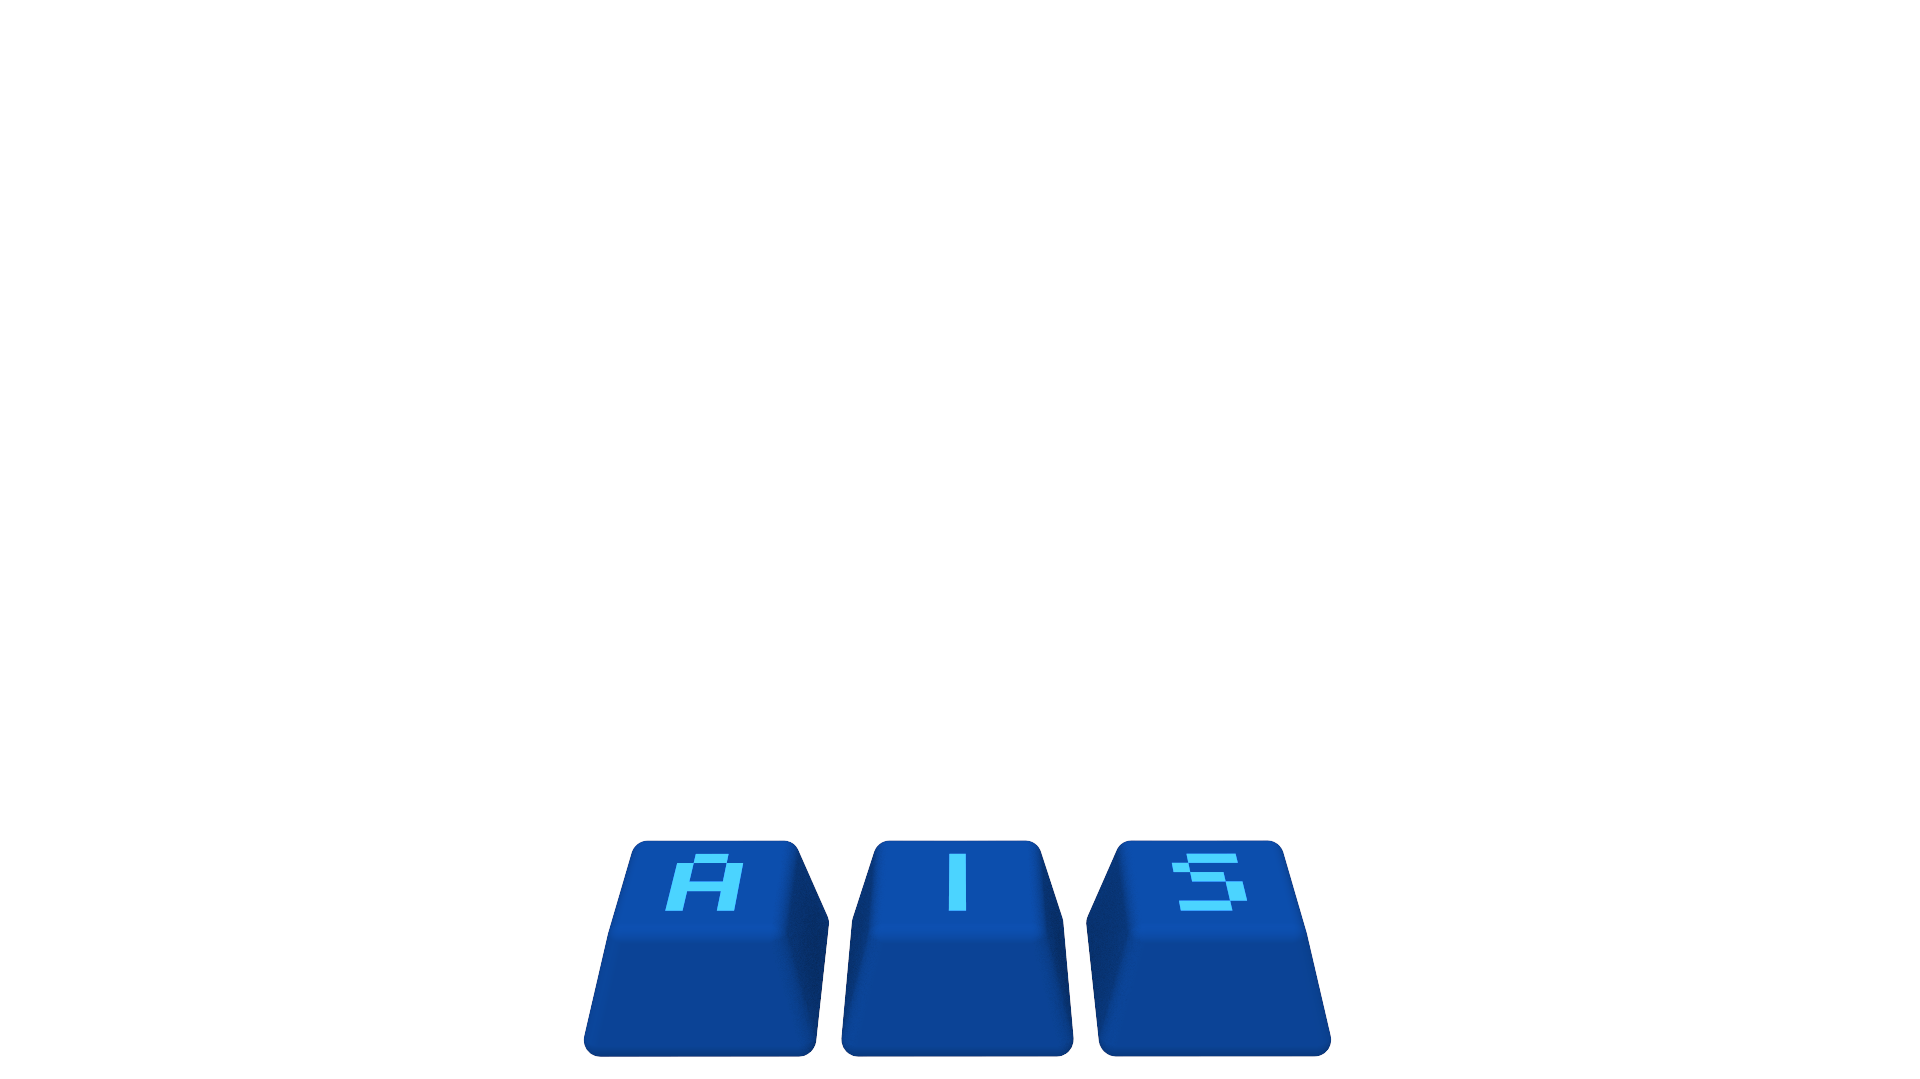
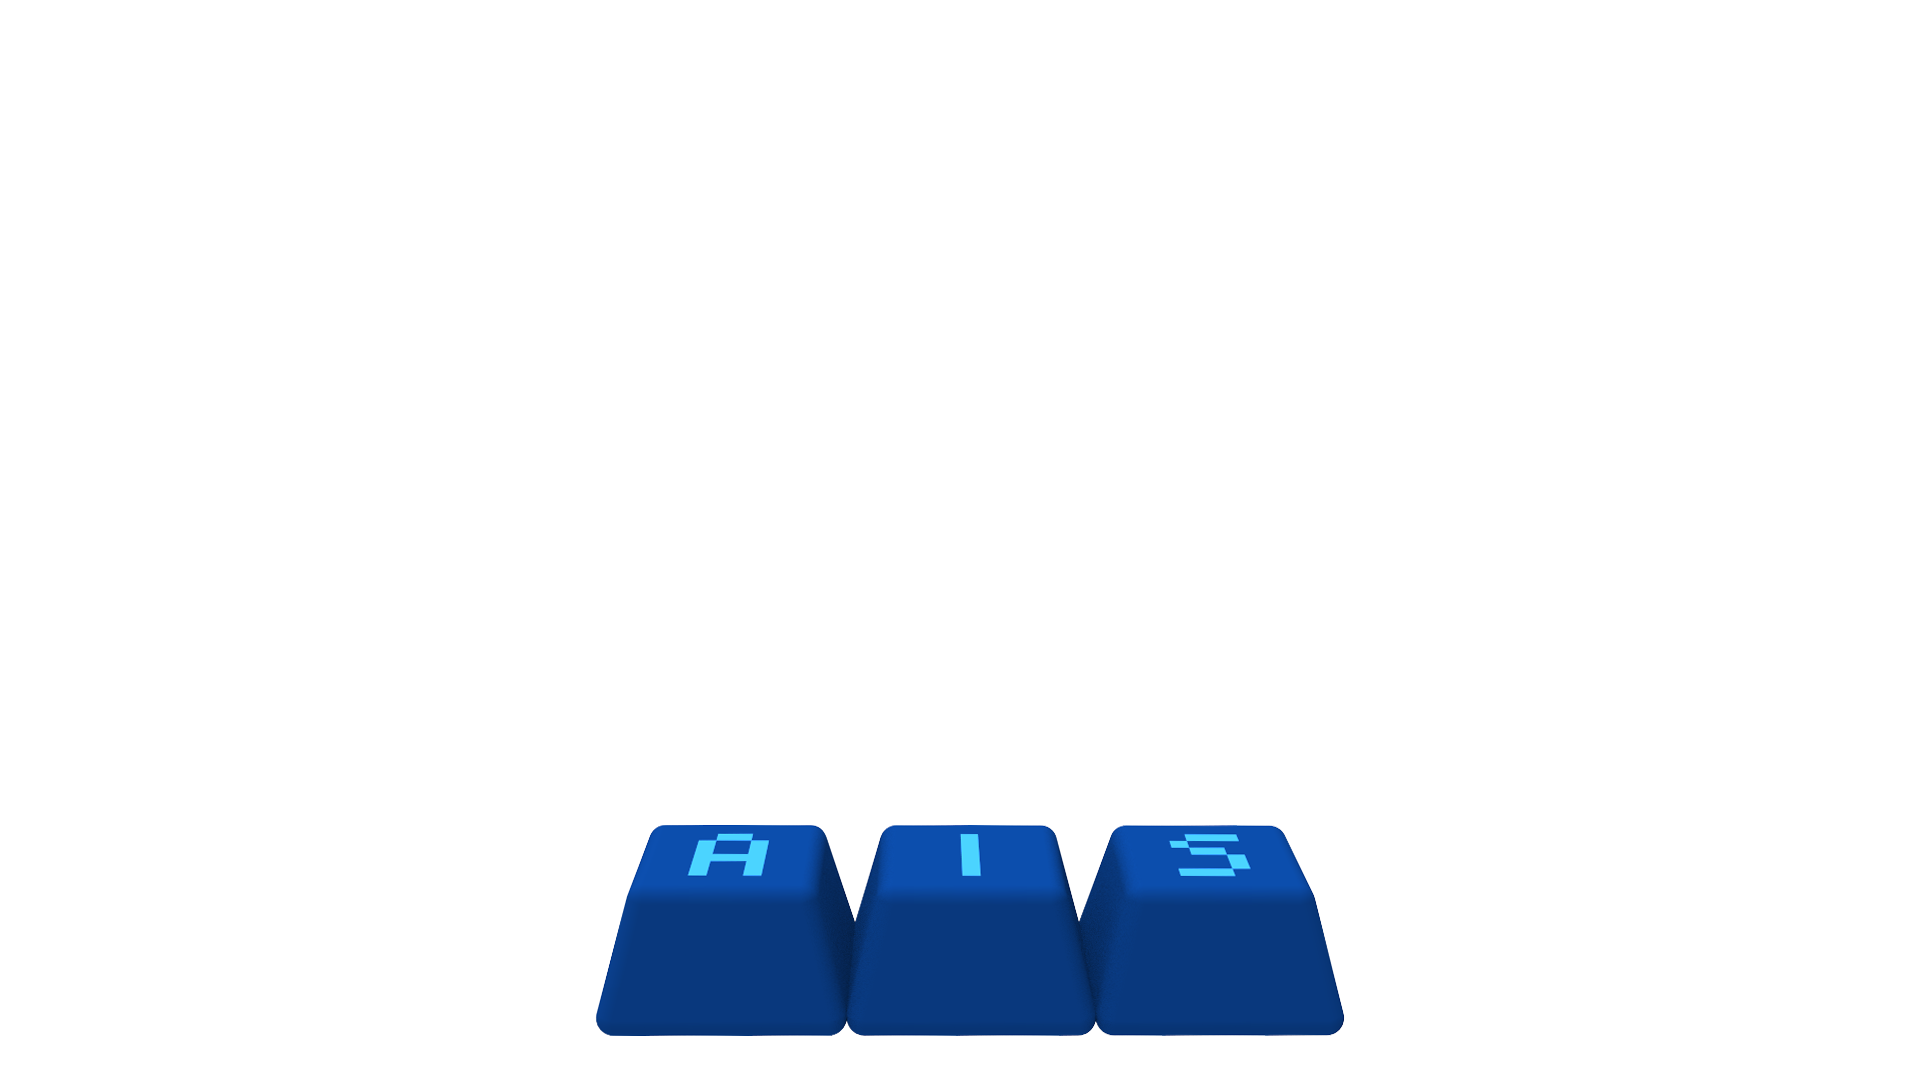
feat：方法封装

Changed region(s): [[0.2812, 0.7646, 0.7188, 0.9787]]

diff --git a/src/index.js b/src/index.js
@@ -266,26 +266,45 @@ var onError = function (xhr) {
 };
 
 var ObjLoader = new THREE.OBJLoader();
-var monster1 = null;
-//var monster2 = null;
-//var monster3 = null;
-//var monster4 = null;
-var keyboard1 = null;//键盘初始状态
-var keyboard2 = null;//键盘状态2
-var keyboard3 = null;//键盘状态3
 
+var keyboard = [];//键盘状态
+var keyboardloaded=[false,false,false];//判断加载是否完成
+var texture1 = THREE.ImageUtils.loadTexture("img/keyboard1.png",null,function(t) {
+  var material = new THREE.MeshBasicMaterial({map:texture1});
+  material.transparent=true;
+  material.opacity=0;
+  var keyboardGeometry = new THREE.BoxGeometry(2, 0.6, 0);
+  var mesh = new THREE.Mesh( keyboardGeometry,material );
+  keyboard[0] = mesh;
+  //console.log(mesh)
+  scene.add( mesh );
+  keyboardloaded[0]=true;
+});
+var texture2 = THREE.ImageUtils.loadTexture("img/keyboard2.png",null,function(t) {
+  var material = new THREE.MeshBasicMaterial({map:texture2});
+  material.transparent=true;
+  material.opacity=0;
+  var keyboardGeometry = new THREE.BoxGeometry(2, 0.6, 0);
+  var mesh = new THREE.Mesh( keyboardGeometry,material );
+  keyboard[1]  = mesh;
+  scene.add( mesh );
+  keyboardloaded[1]=true;
+});
+var texture3 = THREE.ImageUtils.loadTexture("img/keyboard3.png",null,function(t) {
+  var material = new THREE.MeshBasicMaterial({map:texture3});
+  material.transparent=true;
+  material.opacity=1;
+  var keyboardGeometry = new THREE.BoxGeometry(2, 0.6, 0);
+  var mesh = new THREE.Mesh( keyboardGeometry,material );
+  keyboard[2]  = mesh;
+  scene.add( mesh );
+  keyboardloaded[2]=true;
+});
 var shoot1 = null;//子弹
 var boom1 = null;//大招
 var boom2 = null;//大招提示
 var pointer1=null;//准星
 
-var Monster1_is_loaded = false;
-var Monster2_is_loaded = false;
-var Monster3_is_loaded = false;
-var Monster4_is_loaded = false;
-var keyboardloaded=false;//判断加载是否完成
-var keyboardloaded2=false;//判断加载是否完成
-var keyboardloaded3=false;//判断加载是否完成
 var shoot1Loaded=false;//判断加载是否完成
 var boomLoaded=false;//判断加载是否完成
 var boom2Loaded=false;//判断加载是否完成
@@ -293,7 +312,6 @@ var pointer1Loaded=false;
 
 var monsterGroup = new THREE.Object3D();
 var Monster_Material = new THREE.MeshNormalMaterial();
-//ObjLoader.setMaterials(Monster_Material);
 
 var pointer = THREE.ImageUtils.loadTexture("img/sight-bead-white.png",null,function(t) {
   var material = new THREE.MeshBasicMaterial({map:pointer});
@@ -306,37 +324,7 @@ var pointer = THREE.ImageUtils.loadTexture("img/sight-bead-white.png",null,funct
   scene.add( mesh );
   pointer1Loaded=true;
 });
-var texture1 = THREE.ImageUtils.loadTexture("img/keyboard1.png",null,function(t) {
-  var material = new THREE.MeshBasicMaterial({map:texture1});
-  material.transparent=true;
-  material.opacity=0;
-  var keyboardGeometry = new THREE.BoxGeometry(1/3, 0.1, 0);
-  var mesh = new THREE.Mesh( keyboardGeometry,material );
-  keyboard1 = mesh;
-  //console.log(mesh)
-  scene.add( mesh );
-  keyboardloaded=true;
-});
-var texture2 = THREE.ImageUtils.loadTexture("img/keyboard2.png",null,function(t) {
-  var material = new THREE.MeshBasicMaterial({map:texture2});
-  material.transparent=true;
-  material.opacity=0;
-  var keyboardGeometry = new THREE.BoxGeometry(1/3, 0.1, 0);
-  var mesh = new THREE.Mesh( keyboardGeometry,material );
-  keyboard2 = mesh;
-  scene.add( mesh );
-  keyboardloaded2=true;
-});
-var texture3 = THREE.ImageUtils.loadTexture("img/keyboard3.png",null,function(t) {
-  var material = new THREE.MeshBasicMaterial({map:texture3});
-  material.transparent=true;
-  material.opacity=1;
-  var keyboardGeometry = new THREE.BoxGeometry(2, 0.6, 0);
-  var mesh = new THREE.Mesh( keyboardGeometry,material );
-  keyboard3 = mesh;
-  scene.add( mesh );
-  keyboardloaded3=true;
-});
+
 var shoot = THREE.ImageUtils.loadTexture("img/shoot.png",null,function(t) {
   var material = new THREE.MeshBasicMaterial({map:shoot});
   material.transparent=true;
@@ -351,7 +339,7 @@ var shoot = THREE.ImageUtils.loadTexture("img/shoot.png",null,function(t) {
 var boomTip = THREE.ImageUtils.loadTexture("img/boom.png",null,function(t) {
   var material = new THREE.MeshBasicMaterial({map:boomTip});
   material.transparent=true;
-  //material.opacity=0;
+  material.opacity=0;
   var boom2Geometry = new THREE.BoxGeometry( 0.7, 0.4,0);
   //console.log(boom2Geometry)
   var mesh = new THREE.Mesh( boom2Geometry,material );
@@ -364,6 +352,8 @@ ObjLoader.load('asset_src/boom.obj', function (boom) {//爆炸特效
   boom = boom.children[0];
   boom.material = new THREE.MeshLambertMaterial({
     color: 0xFF3399,
+    transparent:true,
+    opacity:0
     //shading: THREE.FlatShading,
   });
   //boom.position.x = -1;
@@ -735,7 +725,12 @@ function createPoints() {
 * */
 var pointsSystem = createPoints();
 
-//
+var keyBoardSystem = createKeyboard;
+
+var startPostion=new THREE.Vector3(0,1.6, -1);
+var endPostion=new THREE.Vector3(0,1.6,-16);
+var boomFly=createBoom;
+
 var GUIControl = {
   start: function () {
     startMonsterSpawn();
@@ -761,7 +756,28 @@ var GUIControl = {
   },
   pointsBoom: function () {
     pointsSystem.boom();
-  }
+  },
+  keyBoardAisToAs: function () {
+    keyBoardSystem(3,1).boom();
+  },
+  keyBoardAisToI: function () {
+    keyBoardSystem(3,2).boom();
+  },
+  keyBoardAsToAis: function () {
+    keyBoardSystem(1,3).boom();
+  },
+  bigBoom: function () {
+    boomFly(startPostion,endPostion).boom();
+  },
+  hideTip:function(){
+    boomFly(startPostion,endPostion).tipHide();
+  },
+  showTip:function(){
+    boomFly(startPostion,endPostion).tipShow();
+  },
+  shootFly: function () {
+    boomFly(startPostion,endPostion).shoot();
+},
 };
 
 var gui = new dat.GUI();
@@ -772,6 +788,13 @@ gui.add(GUIControl, 'playMusic');
 gui.add(GUIControl, 'add');
 gui.add(GUIControl, 'remove');
 gui.add(GUIControl, 'pointsBoom');
+gui.add(GUIControl, 'keyBoardAisToAs');
+gui.add(GUIControl, 'keyBoardAisToI');
+gui.add(GUIControl, 'keyBoardAsToAis');
+gui.add(GUIControl, 'bigBoom');
+gui.add(GUIControl, 'showTip');
+gui.add(GUIControl, 'hideTip');
+gui.add(GUIControl, 'shootFly');
 gui.add(GUIControl, 'gameover');
 
 var stats = new Stats();
@@ -786,7 +809,6 @@ var lastRender = 0;
 var cursor = new THREE.Vector2(0, 0);
 var shootCount=0;//子弹计时器
 var shootFlag=75;//子弹帧数
-var shootStartPos=null;
 function animate(timestamp) {
   stats.update();
   TWEEN.update(timestamp);
@@ -863,14 +885,9 @@ function animate(timestamp) {
     }
   //}
   if(boomLoaded){
-    boom1.position.copy( camera.position );// 复制位置
-    boom1.rotation.copy( camera.rotation );// 复制视角偏移角度
-    //boom1.updateMatrix();
+    //boom1.rotation.copy( camera.rotation );
     boom1.translateX( 0 );
     boom1.translateZ( - 1 );
-    //console.log(boom1.material)
-    //console.log(boom1)
-    //changeKeyboard(keyboard1,keyboard2,1000)
   }
   if(boom2Loaded){
     boom2.position.copy( camera.position );// 复制位置
@@ -880,45 +897,27 @@ function animate(timestamp) {
   }
 
   //键盘随视角移动
-  if(keyboardloaded) {
-    keyboard1.position.copy(camera.position);// 复制位置
-    keyboard1.rotation.copy(camera.rotation);// 复制视角偏移角度
-    //keyboard1.updateMatrix();
-    keyboard1.translateY(-0.2);
-    keyboard1.translateZ(-0.4);
+  for(var i=0;i<3;i++){
+    if(keyboardloaded[i]){
+      keyboard[i].position.copy( camera.position );
+      keyboard[i].rotation.copy( camera.rotation );
+      keyboard[i].translateY( -0.25 );
+      keyboard[i].translateZ( - 1 );
+    }
   }
-  if(keyboardloaded2){
-    keyboard2.position.copy(camera.position);
-    keyboard2.rotation.copy(camera.rotation);
-    //keyboard2.updateMatrix();
-    keyboard2.translateY(-0.2);
-    keyboard2.translateZ(-0.4);
-  }
-  if(keyboardloaded3){
-    keyboard3.position.copy( camera.position );
-    keyboard3.rotation.copy( camera.rotation );
-    //keyboard3.updateMatrix();
-    keyboard3.translateY( -0.25 );
-    keyboard3.translateZ( - 1 );
-    //changeKeyboard(keyboard3,keyboard2,30)
-  }
+
   if(shoot1Loaded){
-    shoot1.position.copy( camera.position );
-    shoot1.rotation.copy( camera.rotation );
+    //shoot1.position.copy( camera.position );
+    //shoot1.rotation.copy( camera.rotation );
     shoot1.translateY( - 0.27 );//-0.2~0
     shoot1.translateZ( - 0.5);
-    var endPostion=new THREE.Vector3(0,1.6,-16)
-    var endPostion2=new THREE.Vector3(1,1.6,-16)
-    if(shootCount==0){
-      shootStartPos=shoot1.position;
-      shootBigger(boom1,shootStartPos,endPostion2,shootFlag,shootCount);
-    }
+    //if(shootCount==0){
+      //shootStartPos=shoot1.position;
+      //endPostion=new THREE.Vector3(0,1.6,-16)
+    //}
 
-    var endPostion=new THREE.Vector3(0,1.6,-6);
-    shootFly(shoot1,shootStartPos,endPostion,shootFlag,shootCount)
-    boomFly(boom1,shootStartPos,endPostion,shootFlag,shootCount)
-    //shootFly(boom1,shootStartPos,endPostion,shootFlag,shootCount)
-    shootCount=(shootCount+1)%shootFlag;
+    //shootFly(shoot1,shootStartPos,endPostion,shootFlag,shootCount)
+    //shootCount=(shootCount+1)%shootFlag;
   }
 
   if (GAME_OVER_FLAG) {
@@ -993,36 +992,101 @@ function setStageDimensions(stage) {
   // cube.position.set(0, controls.userHeight, 0);
 }
 
-function changeKeyboard(key1,key2,flag){//初始键盘对象,最终键盘对象,过渡帧数
-  //key1.material.opacity=1;
-  //key2.material.opacity=0;
-  if(key1.material.opacity>0){
-    key1.material.opacity-=1/flag;
-    key2.material.opacity+=1/flag;
-  }else{
-    key1.material.opacity=0;
-    key2.material.opacity=1;
+// 键盘系统
+function createKeyboard(key1,key2) {//初始键盘对象,最终键盘对象
+  var keyboardOpacityTween = new TWEEN.Tween({ opacity: 0 })
+    .to({ opacity: 1 }, 800)
+    .easing(TWEEN.Easing.Exponential.In)
+    .onUpdate(function(interpolation) {
+      keyboard[key1-1].material.opacity = 1 - interpolation;
+      keyboard[key2-1].material.opacity =  interpolation;
+    })
+    .onComplete(function () {
+      keyboard[key1-1].material.opacity = 0;
+      keyboard[key2-1].material.opacity = 1;
+    });
+  return {
+    boom: function () {
+      keyboardOpacityTween.start();
+    },
+    particles: key1,
+    particles2: key2
   }
 }
-//大招
-function shootBigger(shoot,startPos,endPos,flag,count){//子弹对象
-  shoot.material.opacity=1;
-  boomFly(shoot,startPos,endPos,flag,count);
-}
-function showBoomTip(shoot,flag,count){//子弹对象
-  shoot.material.opacity=1;
-}
-function shootFly(shoot,startPos,endPos,flag,count){//子弹对象,初始位置,目标点位置,过渡帧数,计时器
-  var position=new THREE.Vector3(startPos.x+(endPos.x-startPos.x)*count/flag,startPos.y+(endPos.y-startPos.y)*count/flag,startPos.z+(endPos.z-startPos.z)*count/flag);
-  shoot.position.copy( position );
-  shoot.rotation.copy( camera.rotation );
-  shoot.translateY( -0.27+ 0.27*count/flag );//-0.2~0
+
+// 子弹系统
+function createBoom(startPos,endPos) {//初始键盘对象,最终键盘对象
+  var hideTween = new TWEEN.Tween({ opacity: 0 })//提示hide
+    .to({ opacity: 1 }, 800)
+    .easing(TWEEN.Easing.Exponential.In)
+    .onUpdate(function(interpolation) {
+      boom2.material.opacity = 1-interpolation;
+    })
+    .onComplete(function () {
+      boom2.material.opacity = 0;
+    });
+  var showTween = new TWEEN.Tween({ opacity: 0 })//提示显示
+    .to({ opacity: 1 }, 800)
+    //.easing(TWEEN.Easing.Elastic.InOut)
+    .onUpdate(function(interpolation) {
+      boom2.material.opacity = interpolation;
+    })
+    .onComplete(function () {
+      boom2.material.opacity = 1;
+    });
+
+  var shootFlyTween = new TWEEN.Tween({ count: 0 })//子弹
+    .to({ count: 1 }, 800)
+    //.easing(TWEEN.Easing.Exponential.In)
+    .onUpdate(function(count) {
+      var position=new THREE.Vector3(startPos.x+(endPos.x-startPos.x)*count,startPos.y+(endPos.y-startPos.y)*count,startPos.z+(endPos.z-startPos.z)*count);
+      shoot1.rotation.copy( camera.rotation );
+      shoot1.position.copy( position );
+      shoot1.translateY( -0.27+ 0.27*count );//-0.2~0
+      shoot1.material.opacity = 1;
+    })
+    .onComplete(function () {
+      shoot1.position.copy( endPos );
+      shoot1.rotation.copy( camera.rotation );
+      shoot1.translateY( 0 );
+      shoot1.material.opacity = 0;
+    });
+  var boomFlyTween = new TWEEN.Tween({ count: 0 })//大招
+    .to({ count: 1 }, 800)
+    //.easing(TWEEN.Easing.Exponential.In)
+    .onUpdate(function(count) {
+      var position=new THREE.Vector3(startPos.x+(endPos.x-startPos.x)*count,startPos.y+(endPos.y-startPos.y)*count,startPos.z+(endPos.z-startPos.z)*count);
+      boom1.rotation.copy( camera.rotation );
+      boom1.position.copy( position );
+      boom1.rotateX(-1*Math.PI*count);
+      boom1.translateY( -0.27+ 0.27*count );//-0.2~0
+      boom1.material.opacity = 1;
+    })
+    .onComplete(function () {
+      boom1.position.copy( endPos );
+      boom1.rotation.copy( camera.rotation );
+      boom1.rotateX(-1*Math.PI);
+      boom1.translateY( 0 );
+      boom1.material.opacity = 0;
+    });
+  return {
+    boom: function () {
+      boom1.material.opacity = 1;
+      boom1.rotation.copy( camera.rotation );
+      boomFlyTween.start();
+    },
+    tipHide:function(){
+      hideTween.start();
+    },
+    tipShow:function(){
+      showTween.start();
+    },
+    shoot: function () {
+      shoot1.material.opacity = 1;
+      shoot1.rotation.copy( camera.rotation );
+      shootFlyTween.start();
+    }
+  }
 }
 
-function boomFly(shoot,startPos,endPos,flag,count){//子弹对象,初始位置,目标点位置,过渡帧数,计时器
-  var position=new THREE.Vector3(startPos.x+(endPos.x-startPos.x)*count/flag,startPos.y+(endPos.y-startPos.y)*count/flag,startPos.z+(endPos.z-startPos.z)*count/flag);
-  shoot.position.copy( position );
-  shoot.rotation.copy( camera.rotation );
-  shoot.rotateX(-1*Math.PI*count/flag );
-  shoot.translateY( -0.27+ 0.27*count/flag );//-0.2~0
-}
+
